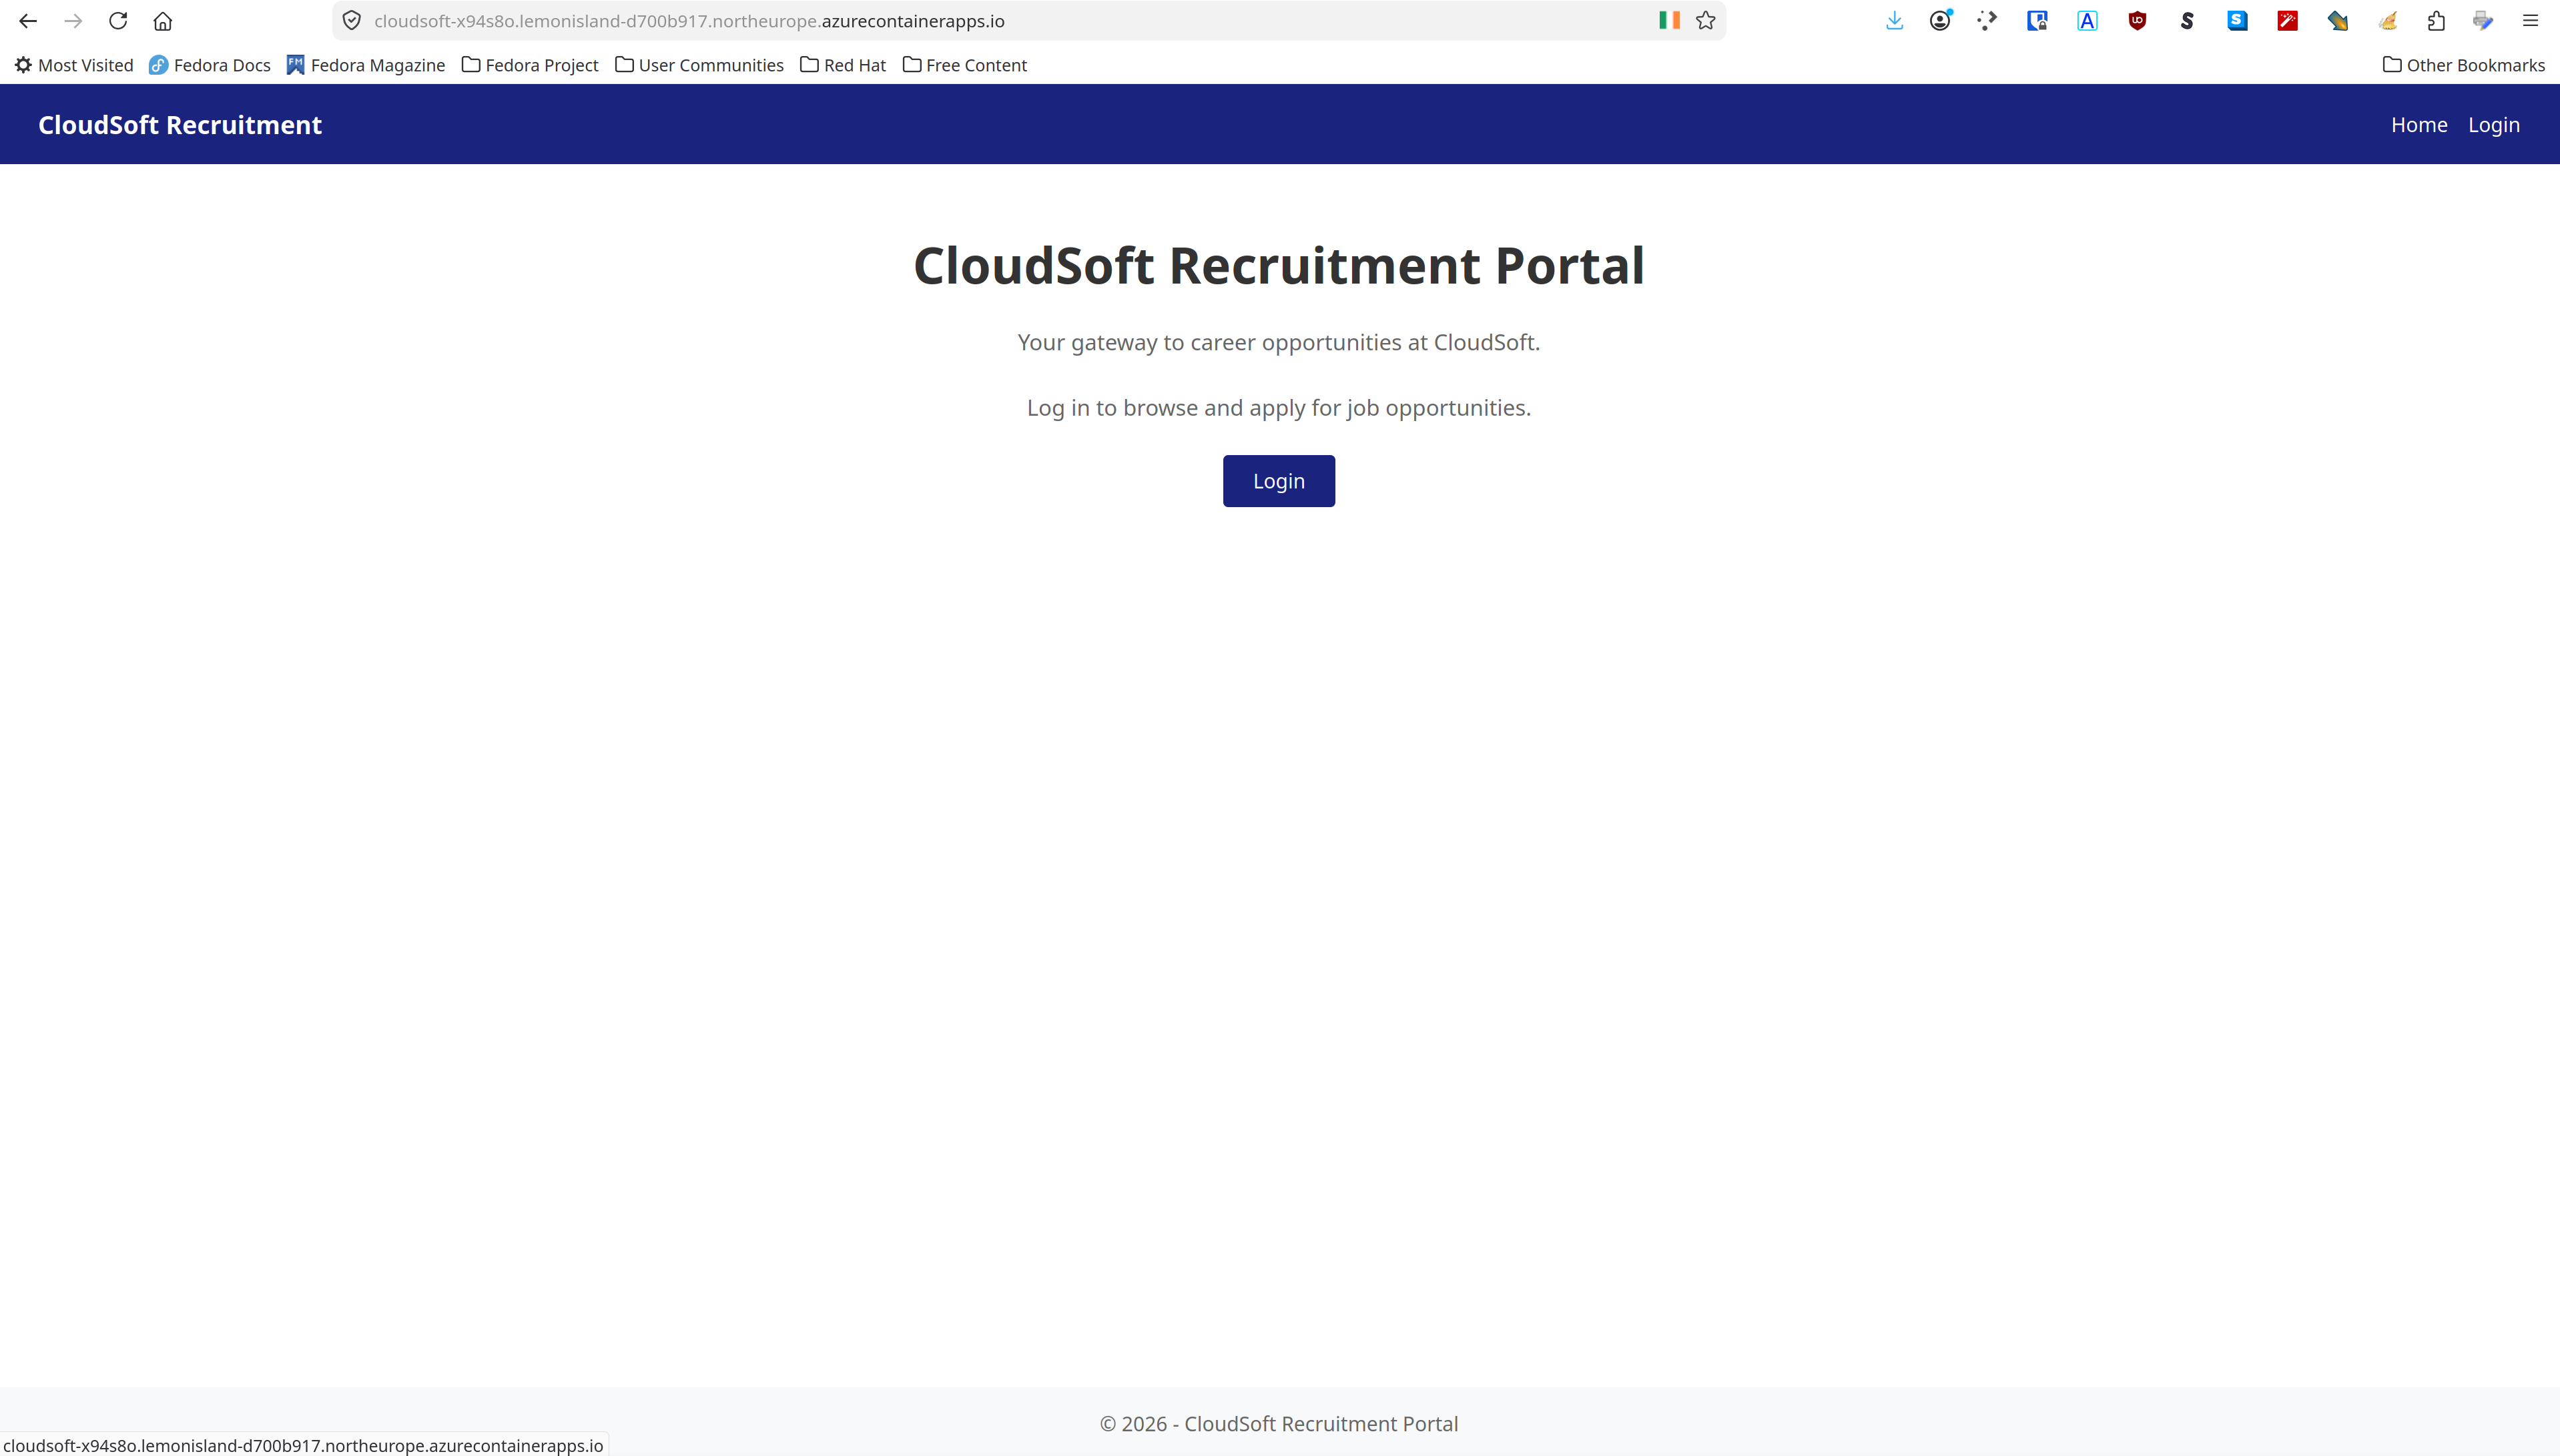
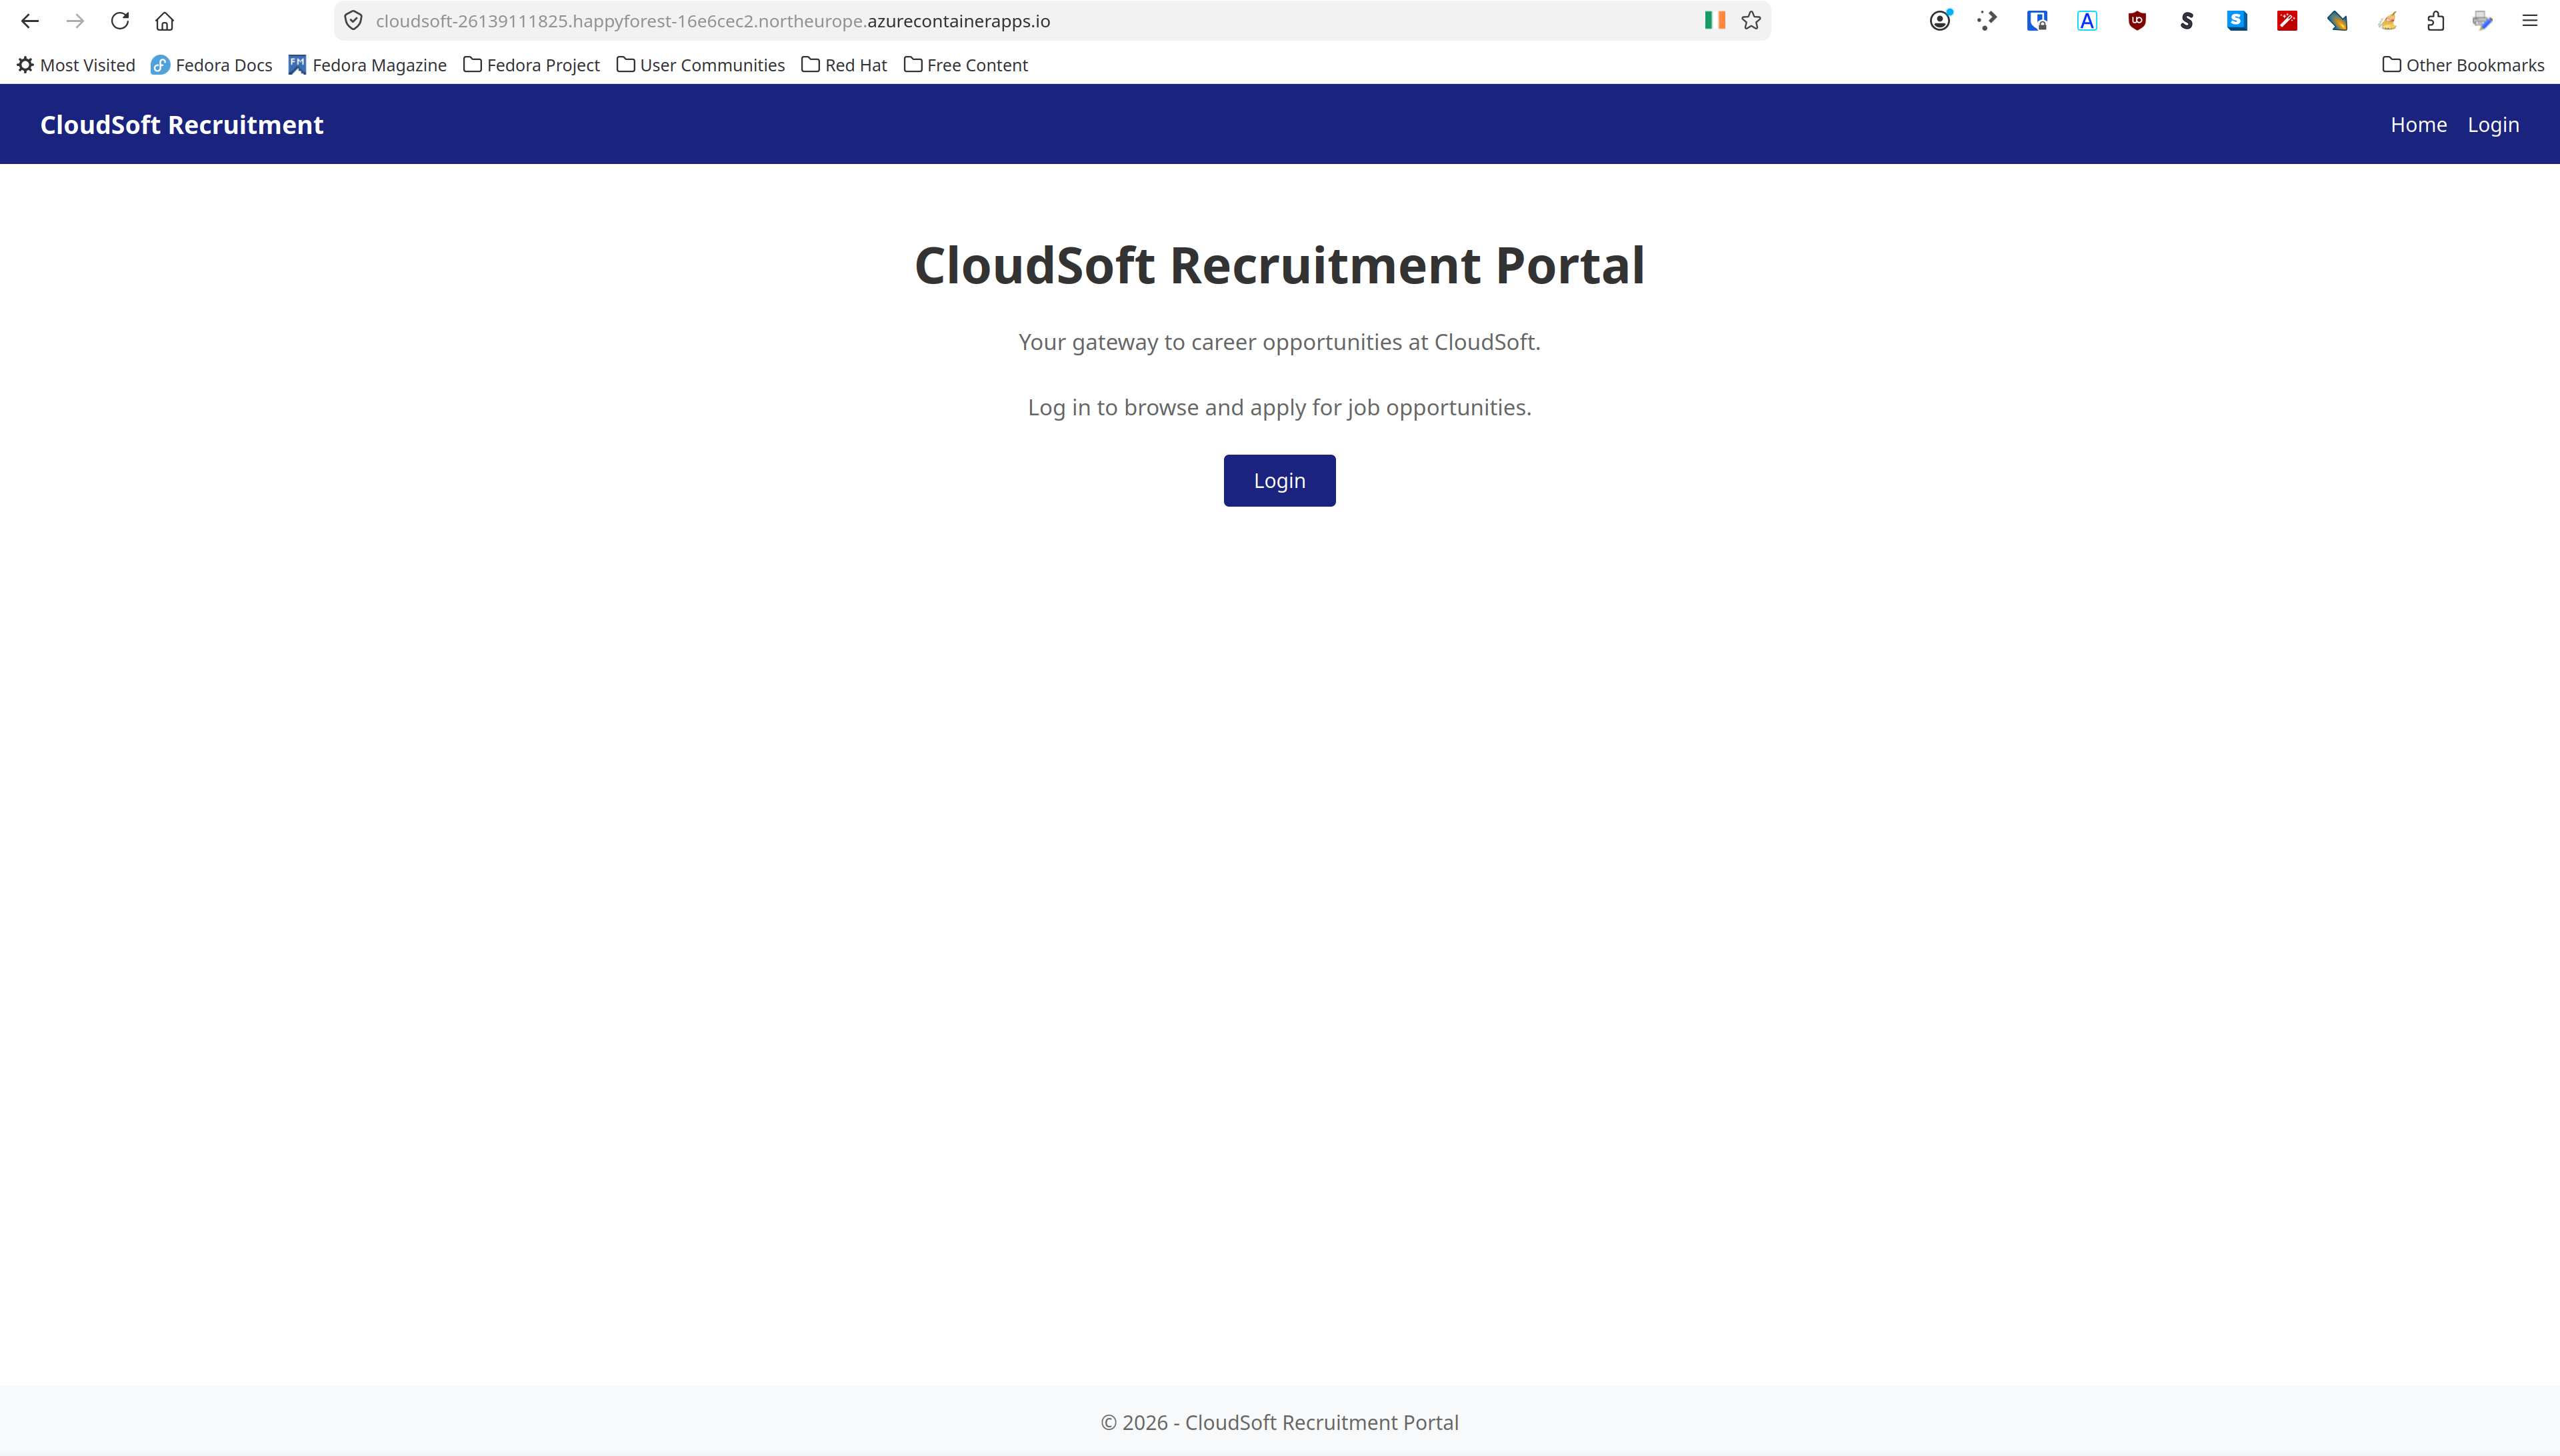
📝 docs(report): polish formatting, grammar, and regenerate artifacts
Add Pandoc YAML frontmatter for PDF generation with DejaVu fonts.
Fix grammar and update personal voice in AI usage section.
Regenerate PDF and update application screenshot.

With help from Claude.ai (web).

diff --git a/doc/report.md b/doc/report.md
@@ -1,3 +1,9 @@
+---
+mainfont: "DejaVu Serif"
+monofont: "DejaVu Sans Mono"
+header-includes:
+  - \usepackage{pifont}
+---
 # Report
 # "Inlämningsuppgift 1: Containerbaserad webbapplikation — från inner loop till Azure Container Apps"
 
@@ -351,7 +357,7 @@ The `/health` endpoint returns HTTP 200 with a JSON response containing a UTC ti
 
 ## 9. AI Assistant Usage
 
-Throughout this assignment, AI coding assistants (Pi Coding Agent / Opencode with Llama.cpp and Qwen3.6-27B) have been used extensively:
+Throughout this assignment, AI coding assistants (Pi Coding Agent / Opencode with Llama.cpp and Qwen3.6-27B model) have been used extensively:
 
 - **Project scaffolding**: Generated the four-layer architecture (Domain → Data → Services → Web) with proper project references
 - **Dockerfile and docker-compose**: Created multi-stage Dockerfile and compose configuration for local development
@@ -361,7 +367,7 @@ Throughout this assignment, AI coding assistants (Pi Coding Agent / Opencode wit
 - **Debugging**: Resolved issues with chiseled image limitations, CosmosDB emulator certificate handling, and Azure service principal authentication
 - **Documentation**: Assisted with writing this report
 
-Much of the AI-generated code was reviewed, tested, and adapted by the developer. The AI suggested hardcoding credentials for simplicity, which was rejected in favor of proper secret management (user secrets, GitHub Actions secrets, Container Apps secrets).
+Much of the AI-generated code was reviewed, tested, and adapted by me (Claes). The AI suggested hardcoding credentials for simplicity, which I rejected in favor of proper secret management (user secrets, GitHub Actions secrets, Container Apps secrets).
 
 ---
 